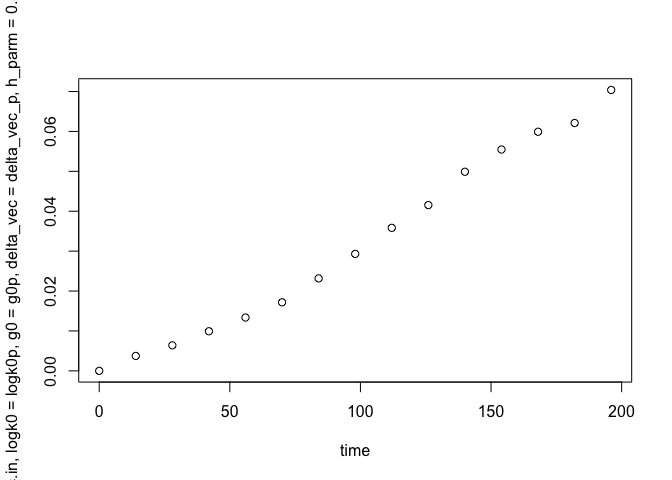
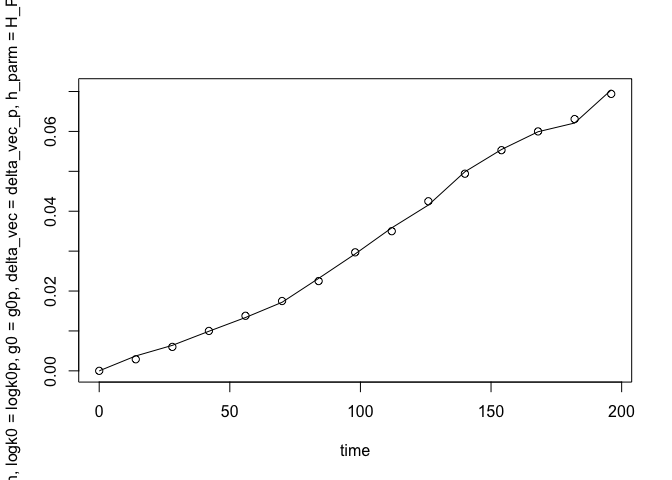
TPU added to popavg_haz

diff --git a/README.md b/README.md
@@ -366,7 +366,7 @@ plot(time,
      popavg_haz(time, knots=tvec.in, logk0=logk0p, g0=g0p,
                   delta_vec = delta_vec_p, h_parm=H_PARM, 
                 frailty="TP1", xi=XI),
-     type="l", ylim=c(0,1e-2))
+     type="l", ylim=c(0,1e-3))
 
 ## plot the subject-specific hazard, fit in the presence
 ## of the h_parm value:
@@ -398,16 +398,21 @@ F0 <- Pf.F0
 tvec.in <- c(7, seq(14,max(time)-14,length.out=14),max(time)-7)
 init.vals <- c(log(2.4), -10, rep( 0,length(tvec.in)))
 
-
+## fit F_omega for a given H_PARM and N<1 and S>1
+## (1-H_PARM) will have value N < 1
+##    H_PARM  will have value S > 1 
+H_PARM <- 0.5
+N <- 0.25
+S <- 4.00
 fit_F_omega <- function(x){mean((popavg_dist(time, 
                                             knots= tvec.in, 
                                             logk0=x[1], 
                                             g0=x[2], 
                                             delta_vec=x[-c(1,2)],
-                                            h_parm = 0.50,
+                                            h_parm = H_PARM,
                                             frailty="TPU",
-                                            n=0.25,
-                                            s=4.00)  - F0)^2) }
+                                            n=N,
+                                            s=S)  - F0)^2) }
 
 
 plac_fit_F_omega <- 
@@ -439,8 +444,30 @@ delta_vec_p =plac_fit_F_omega$par[-1*c(1,2)]
   
 plot(time, 
      popavg_dist(time, knots=tvec.in, logk0=logk0p, g0=g0p, 
-                 delta_vec = delta_vec_p, h_parm=0.50, frailty="TPU",
-                 n=0.25, s=4.00))
+                 delta_vec = delta_vec_p, h_parm=H_PARM, frailty="TPU",
+                 n=N, s=S),
+     type="l")
+points(time, F0)
 ```
 
 <img src="man/figures/README-example_omega-1.png" width="100%" />
+
+``` r
+
+## plot the pop-avg (marginal) hazard:
+plot(time,
+     popavg_haz(time, knots=tvec.in, logk0=logk0p, g0=g0p,
+                  delta_vec = delta_vec_p, h_parm=H_PARM, 
+                frailty="TPU", n=0.25, s=4.00),
+     type="l", ylim=c(0,1e-3))
+
+## plot the subject-specific hazard, fit in the presence
+## of the h_parm value:
+
+lines(time,
+     subjspec_haz(time, knots=tvec.in, logk0=logk0p, g0=g0p,
+                  delta_vec = delta_vec_p),
+     lty=2)
+```
+
+<img src="man/figures/README-example_omega-2.png" width="100%" />
